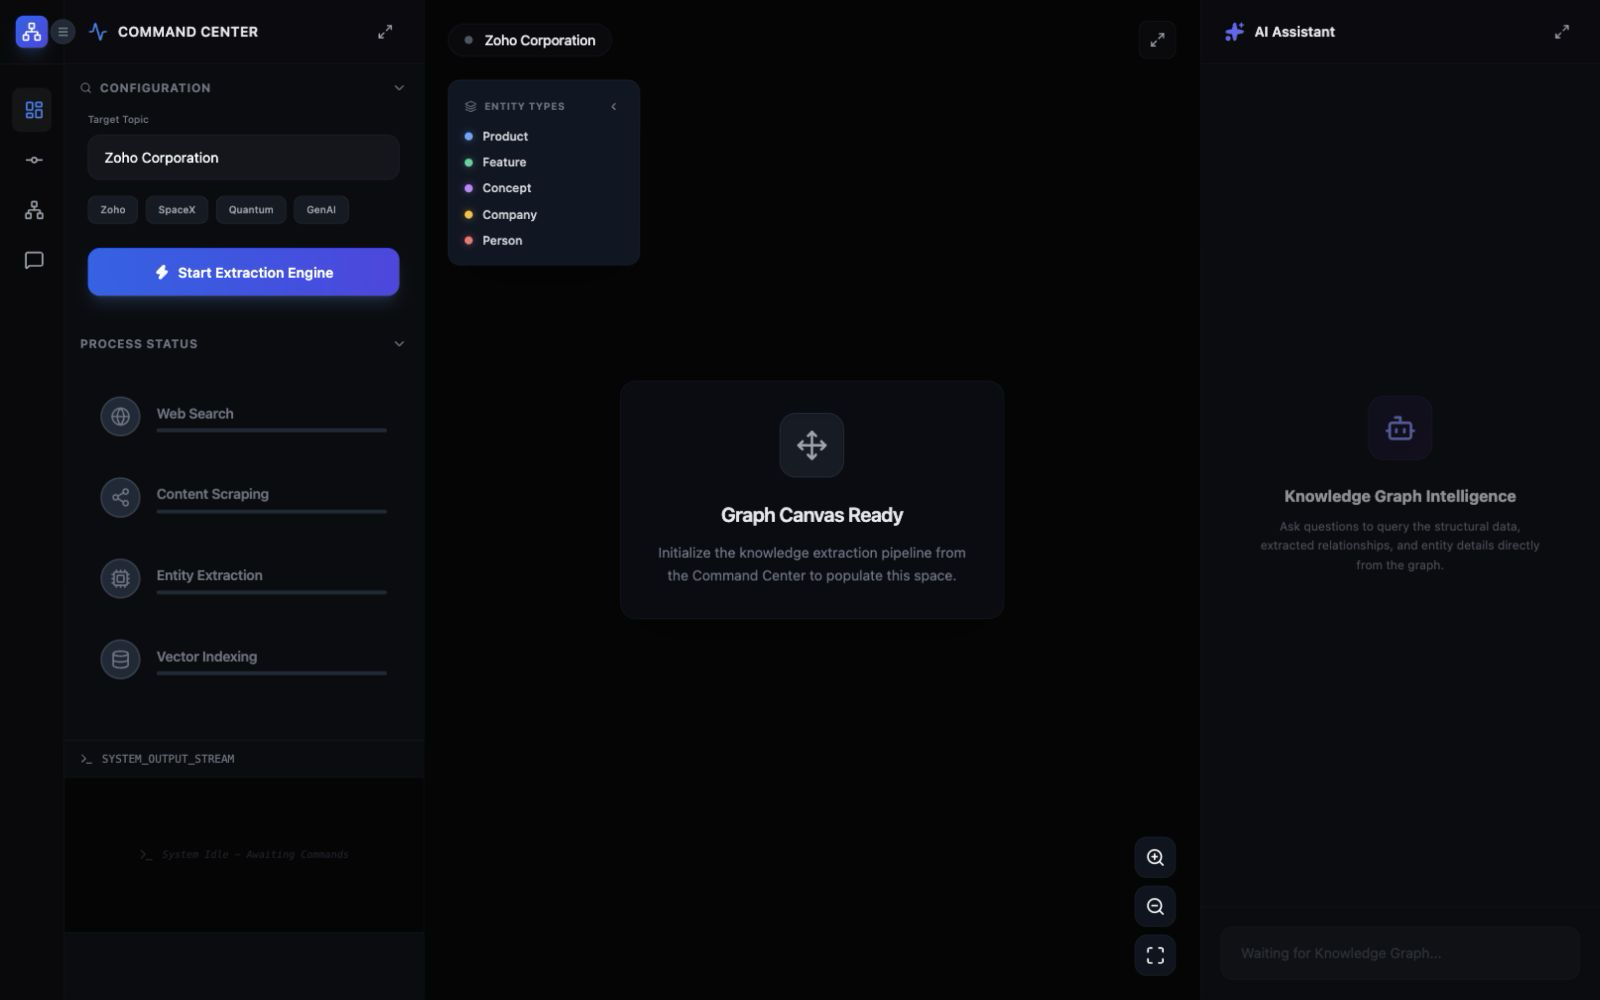
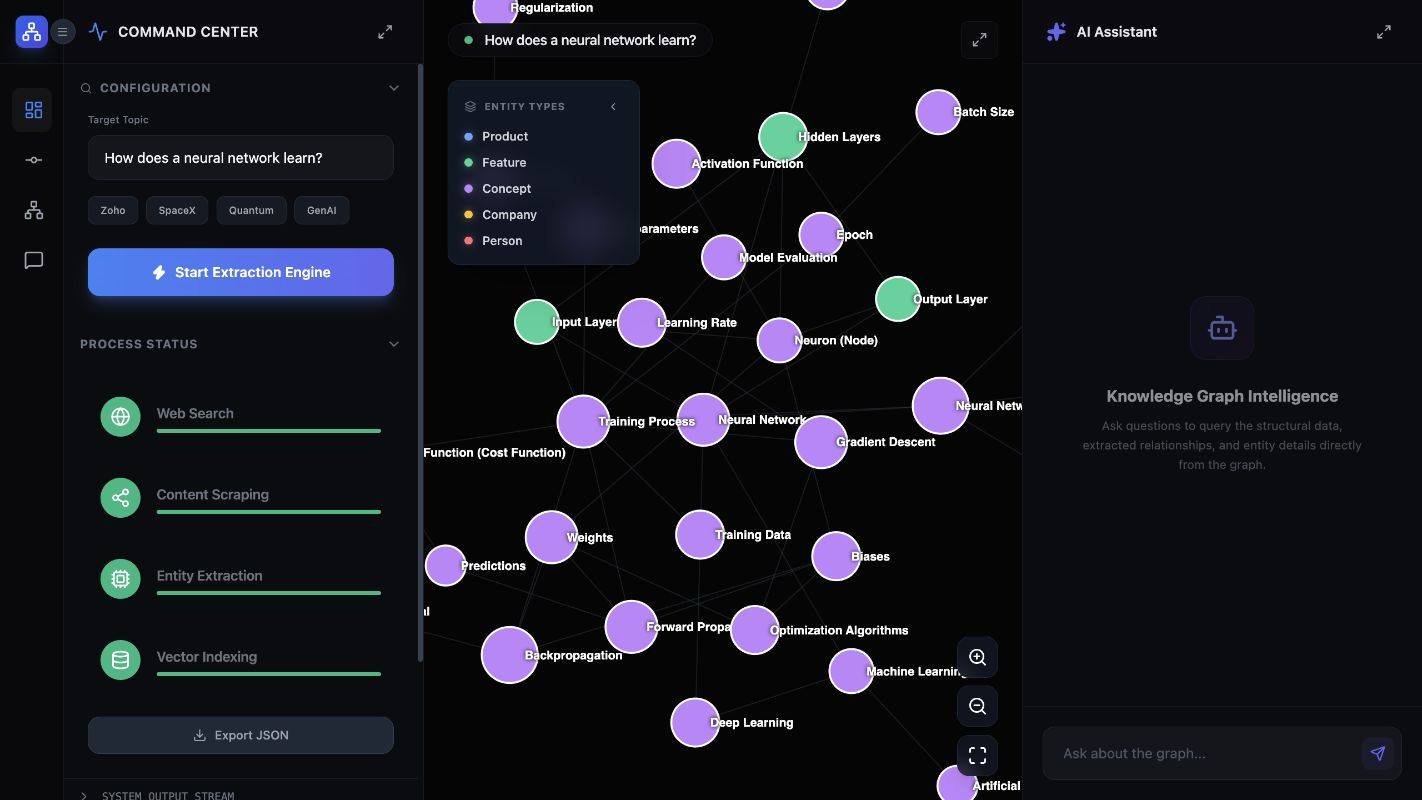
Restore reliable local startup and current Gemini support

diff --git a/app.py b/app.py
@@ -8,6 +8,7 @@ from flask import Flask, request, jsonify, render_template
 from flask_cors import CORS
 from models import db, Session, Node, Link, Log, Message
 from services.gemini_service import generate_knowledge_graph, expand_graph, search_web, answer_question, scrape_urls
+from sqlalchemy import text
 
 import mysql.connector
 from mysql.connector import Error
@@ -22,7 +23,14 @@ db_password = os.getenv('DB_PASSWORD')
 db_host = os.getenv('DB_HOST')
 db_name = os.getenv('DB_NAME')
 
-app.config['SQLALCHEMY_DATABASE_URI'] = f"mysql+mysqlconnector://{db_user}:{db_password}@{db_host}/{db_name}"
+database_url = os.getenv('DATABASE_URL')
+if not database_url:
+    if all((db_user, db_password, db_host, db_name)):
+        database_url = f"mysql+mysqlconnector://{db_user}:{db_password}@{db_host}/{db_name}"
+    else:
+        database_url = 'sqlite:///knowledge_graph.db'
+
+app.config['SQLALCHEMY_DATABASE_URI'] = database_url
 app.config['SQLALCHEMY_TRACK_MODIFICATIONS'] = False
 
 db.init_app(app)
@@ -50,12 +58,15 @@ def index():
 
 @app.route('/api/health', methods=['GET'])
 def health_check():
-    # Use the requested connection method for health check
-    conn = create_connection()
-    status = "healthy" if conn else "unhealthy"
-    if conn:
-        conn.close()
-    return jsonify({"status": status, "database": "mysql"})
+    try:
+        db.session.execute(text('SELECT 1'))
+        return jsonify({
+            "status": "healthy",
+            "database": db.engine.url.get_backend_name(),
+        })
+    except Exception as e:
+        app.logger.error("Database health check failed: %s", e)
+        return jsonify({"status": "unhealthy", "database": "unavailable"}), 503
 
 @app.route('/api/search', methods=['POST'])
 def search_endpoint():
@@ -68,14 +79,15 @@ def search_endpoint():
         urls = search_web(topic)
         return jsonify({"urls": urls, "count": len(urls)})
     except Exception as e:
-        return jsonify({"error": str(e)}), 500
+        app.logger.warning("Web search unavailable; continuing with model knowledge: %s", e)
+        return jsonify({"urls": [], "count": 0})
 
 @app.route('/api/scrape', methods=['POST'])
 def scrape_endpoint():
     data = request.json
     urls = data.get('urls', [])
     if not urls:
-        return jsonify({"error": "URLs are required"}), 400
+        return jsonify("")
     
     try:
         scraped_data = scrape_urls(urls)

diff --git a/services/gemini_service.py b/services/gemini_service.py
@@ -11,7 +11,7 @@ GOOGLE_API_KEY = os.getenv('GEMINI_API_KEY')
 client = genai.Client(api_key=GOOGLE_API_KEY)
 
 def generate_knowledge_graph(topic, context=""):
-    model = "gemini-2.0-flash-exp"
+    model = "gemini-2.5-flash"
     
     prompt = f"""
     Act as a Knowledge Graph extraction engine using the Graphiti library framework.
@@ -95,7 +95,7 @@ def generate_knowledge_graph(topic, context=""):
         raise e
 
 def expand_graph(original_data, target_node):
-    model = "gemini-2.0-flash-exp"
+    model = "gemini-2.5-flash"
     
     prompt = f"""
     Act as a Knowledge Graph expansion engine.
@@ -236,7 +236,7 @@ def search_web(topic):
     return [f"https://en.wikipedia.org/wiki/{topic.replace(' ', '_')}"]
 
 def answer_question(question, graph_context):
-    model = "gemini-2.0-flash-exp"
+    model = "gemini-2.5-flash"
     
     # Create context summary
     nodes = graph_context.get('nodes', [])

diff --git a/README.md b/README.md
@@ -22,5 +22,4 @@ cp .env.example .env
 python app.py
 ```
 
-Add your own Gemini key and database settings to `.env`. Local environment files and databases are excluded from this repository.
-
+Add your own Gemini key to `.env`. The app uses a local SQLite database by default; set `DATABASE_URL` or the MySQL fields only when you want an external database. Local environment files and databases are excluded from this repository.
